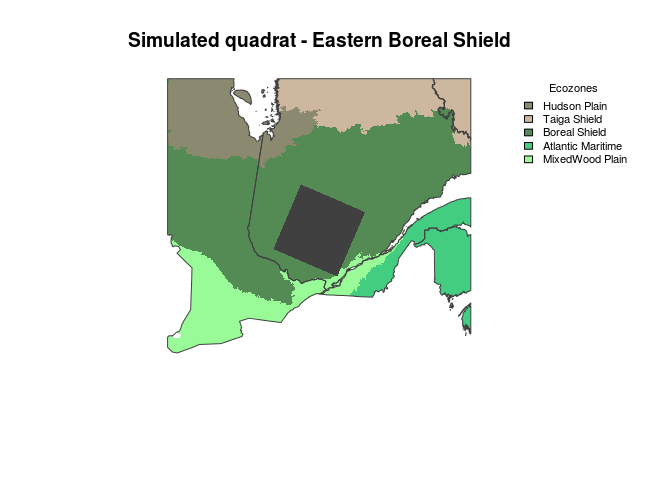
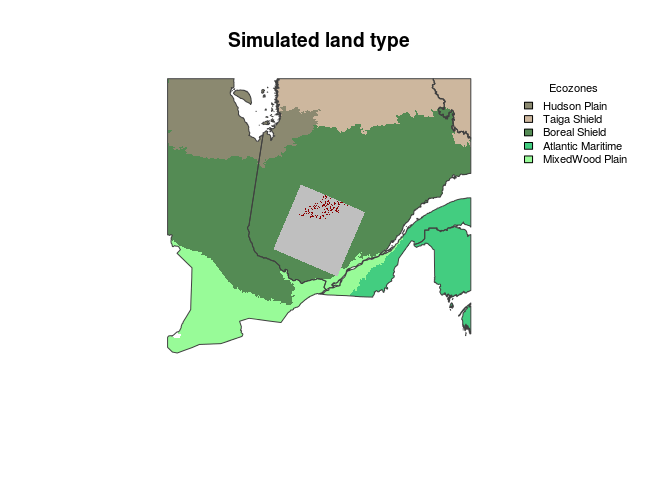
new vignettes added for 'BSE'

Changed region(s): [[0.1875, 0.0625, 0.7812, 0.125], [0.4062, 0.375, 0.5625, 0.5938]]

diff --git a/Vignettes/landisSiteVignette_BSE_4233.md b/Vignettes/landisSiteVignette_BSE_4233.md
@@ -1,4 +1,4 @@
-# Boreal Shield East - Softwood Boreal
+# Boreal Shield East - Hardwood Temperate
 Dominic Cyr  
 Updated on May 26 2016
 
@@ -26,11 +26,11 @@ We use such pixel-level simulation to assess the realism of emerging succession 
 
 
 
-<img src="landisSiteVignette_BSE_4144_files/figure-html/mapPlot-1.png"  />
+<img src="landisSiteVignette_BSE_4233_files/figure-html/mapPlot-1.png"  />
 
 -------
 
-### Boreal Shield East - Mesic Softwood Boreal 
+### Boreal Shield East - Mesic Hardwood Temperate 
 
 
 * In the figure below, note that some panels present average values AND enveloppes, while others only present average values.
@@ -58,7 +58,7 @@ We use such pixel-level simulation to assess the realism of emerging succession 
 -------
 
 ### Pixel-level simulation results
-![](../Figures/multiSppLandisSite_BSE_4144.png)
+![](../Figures/multiSppLandisSite_BSE_4233.png)
 
 
 

diff --git a/Vignettes/landisSiteVignette_BSE_4223.md b/Vignettes/landisSiteVignette_BSE_4223.md
@@ -1,4 +1,4 @@
-# Boreal Shield East - Softwood Boreal
+# Boreal Shield East - Mixedwood Boreal
 Dominic Cyr  
 Updated on May 26 2016
 
@@ -26,11 +26,11 @@ We use such pixel-level simulation to assess the realism of emerging succession 
 
 
 
-<img src="landisSiteVignette_BSE_4144_files/figure-html/mapPlot-1.png"  />
+<img src="landisSiteVignette_BSE_4223_files/figure-html/mapPlot-1.png"  />
 
 -------
 
-### Boreal Shield East - Mesic Softwood Boreal 
+### Boreal Shield East - Mesic Mixedwood Boreal 
 
 
 * In the figure below, note that some panels present average values AND enveloppes, while others only present average values.
@@ -58,7 +58,7 @@ We use such pixel-level simulation to assess the realism of emerging succession 
 -------
 
 ### Pixel-level simulation results
-![](../Figures/multiSppLandisSite_BSE_4144.png)
+![](../Figures/multiSppLandisSite_BSE_4223.png)
 
 
 
